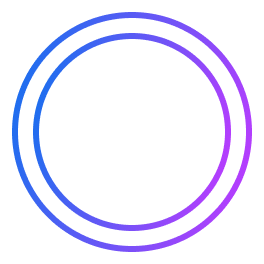
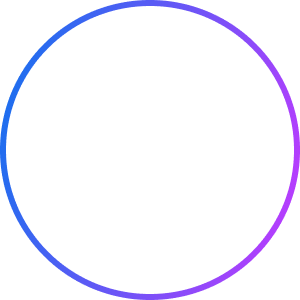
feat: 修改速配特效效果

Changed region(s): [[0.0, 0.0, 1.0, 1.0], [0.1212, 0.1212, 0.8788, 0.8788]]

diff --git a/lib/ui/plaza/speed_dating/speed_dating_page.dart b/lib/ui/plaza/speed_dating/speed_dating_page.dart
@@ -1,4 +1,3 @@
-import 'package:flutter/cupertino.dart';
 import 'package:flutter/material.dart';
 import 'package:flutter/services.dart';
 import 'package:get/get.dart';
@@ -218,7 +217,7 @@ class SpeedDatingPage extends StatelessWidget {
                     ),
                     boxShadow: [
                       BoxShadow(
-                        color: Colors.white.withOpacity(0.3),
+                        color: Colors.white,
                         blurRadius: 4.rpx,
                       ),
                     ],
@@ -253,14 +252,27 @@ class SpeedDatingPage extends StatelessWidget {
             width: 300.rpx,
             height: 300.rpx,
           ),
+        Container(
+          width: 80.rpx,
+          height: 80.rpx,
+          decoration: BoxDecoration(
+            shape: BoxShape.circle,
+            boxShadow: [
+              BoxShadow(
+                color: Colors.white.withOpacity(0.5),
+                blurRadius: 8.rpx,
+              ),
+            ],
+          ),
+          child: AppImage.network(
+            SS.login.avatar,
+            length: 80.rpx,
+            shape: BoxShape.circle,
+          ),
+        ),
         AppImage.asset(
           "assets/images/plaza/speed_head_default.png",
           length: 80.rpx,
-        ),
-        AppImage.network(
-          SS.login.avatar,
-          length: 68.rpx,
-          shape: BoxShape.circle,
         ),
         if (state.isAnimation.value) ...avatarList(),
       ],
@@ -269,92 +281,74 @@ class SpeedDatingPage extends StatelessWidget {
 
   Widget _voiceSpecialEffects() {
     Widget avatarWidget({String? avatar}) {
-      return Stack(
-        alignment: Alignment.center,
-        children: [
-          AppImage.asset(
-            "assets/images/plaza/speed_head_default.png",
-            length: 80.rpx,
-          ),
-          if (avatar != null)
-            AppImage.network(
-              avatar,
-              length: 68.rpx,
-              shape: BoxShape.circle,
+      return SizedBox(
+        width: 115.rpx,
+        height: 115.rpx,
+        child: Stack(
+          alignment: Alignment.center,
+          children: [
+            Container(
+              width: 100.rpx,
+              height: 100.rpx,
+              decoration: BoxDecoration(
+                shape: BoxShape.circle,
+                boxShadow: [
+                  BoxShadow(
+                    color: Colors.white.withOpacity(0.5),
+                    blurRadius: 8.rpx,
+                  ),
+                ],
+              ),
+              child: AppImage.network(
+                avatar ?? "",
+                length: 100.rpx,
+                shape: BoxShape.circle,
+                placeholder: AppImage.asset(
+                  "assets/images/plaza/speed_head_bg.png",
+                  length: 100.rpx,
+                ),
+              ),
             ),
-        ],
+            AppImage.asset(
+              "assets/images/plaza/speed_head_default.png",
+              length: 100.rpx,
+            ),
+          ],
+        ),
       );
     }
 
     return Stack(
       alignment: Alignment.center,
       children: [
-        if (state.isAnimation.value)
-          AppImage.svga(
-            "assets/images/plaza/electrocardiogram.svga",
-            width: 170.rpx,
-            height: 82.rpx,
-          ),
         Row(
           mainAxisAlignment: MainAxisAlignment.center,
           children: [
             avatarWidget(avatar: SS.login.avatar),
-            SizedBox(width: 165.rpx),
+            SizedBox(width: 5.rpx),
             Stack(
+              alignment: Alignment.center,
               children: [
-                if (state.isAnimation.value)
-                  AnimatedBuilder(
-                    animation: controller.animation,
-                    builder: (context, child) {
-                      return CustomPaint(
-                        painter:
-                            CircleRipplePainter(controller.animation.value),
-                        size: Size(80.rpx, 80.rpx),
-                      );
-                    },
-                  ),
                 avatarWidget(
                     avatar: state.isAnimation.value
                         ? state.avatars[state.avatarIndex.value]
                         : null),
-                // avatarWidget(
-                //     avatar: null),
+                AppImage.svga(
+                  "assets/images/plaza/speed_head_circle_ripple.svga",
+                  width: 115.rpx,
+                  height: 115.rpx,
+                ),
               ],
             ),
           ],
         ),
+        if (state.isAnimation.value)
+          AppImage.svga(
+            "assets/images/plaza/electrocardiogram.svga",
+            width: 50.rpx,
+            height: 50.rpx,
+          ),
       ],
     );
-  }
-}
-
-class CircleRipplePainter extends CustomPainter {
-  final double value;
-
-  CircleRipplePainter(this.value);
-
-  @override
-  void paint(Canvas canvas, Size size) {
-    final center = Offset(size.width / 2, size.height / 2);
-    final radius = value * size.width / 2;
-
-    final paint = Paint()
-      ..color = Colors.white.withOpacity(0.3)
-      ..style = PaintingStyle.stroke
-      ..strokeWidth = 1;
-
-    canvas.drawCircle(center, radius + 2, paint);
-
-    final outerPaint = Paint()
-      ..color = Colors.white.withOpacity(0.3)
-      ..style = PaintingStyle.stroke
-      ..strokeWidth = 1;
-
-    canvas.drawCircle(center, radius + 8, outerPaint);
-  }
-
-  @override
-  bool shouldRepaint(CircleRipplePainter oldDelegate) {
-    return oldDelegate.value != value;
   }
 }

diff --git a/lib/ui/plaza/speed_dating/speed_dating_controller.dart b/lib/ui/plaza/speed_dating/speed_dating_controller.dart
@@ -64,7 +64,7 @@ class SpeedDatingController extends GetxController
         });
 
         final countDown = SS.appConfig.configRx.value?.matchingCountDown ?? 90;
-        _endTimer = Timer(Duration(seconds: countDown), () {
+        _endTimer = Timer(Duration(seconds: 10), () {
           state.isAnimation.value = false;
         });
       } else {
@@ -115,14 +115,14 @@ class SpeedDatingController extends GetxController
     state.roundCount = isVideo ? 5 : 1;
     if (state.isAnimation.value) return;
 
-    Loading.show();
-    final res = await IMApi.startSpeedDating(type: isVideo ? 1 : 2);
-    Loading.dismiss();
-
-    if (!res.isSuccess) {
-      res.showErrorMessage();
-      return;
-    }
+    // Loading.show();
+    // final res = await IMApi.startSpeedDating(type: isVideo ? 1 : 2);
+    // Loading.dismiss();
+    //
+    // if (!res.isSuccess) {
+    //   res.showErrorMessage();
+    //   return;
+    // }
 
     state.isAnimation.value = true;
   }
